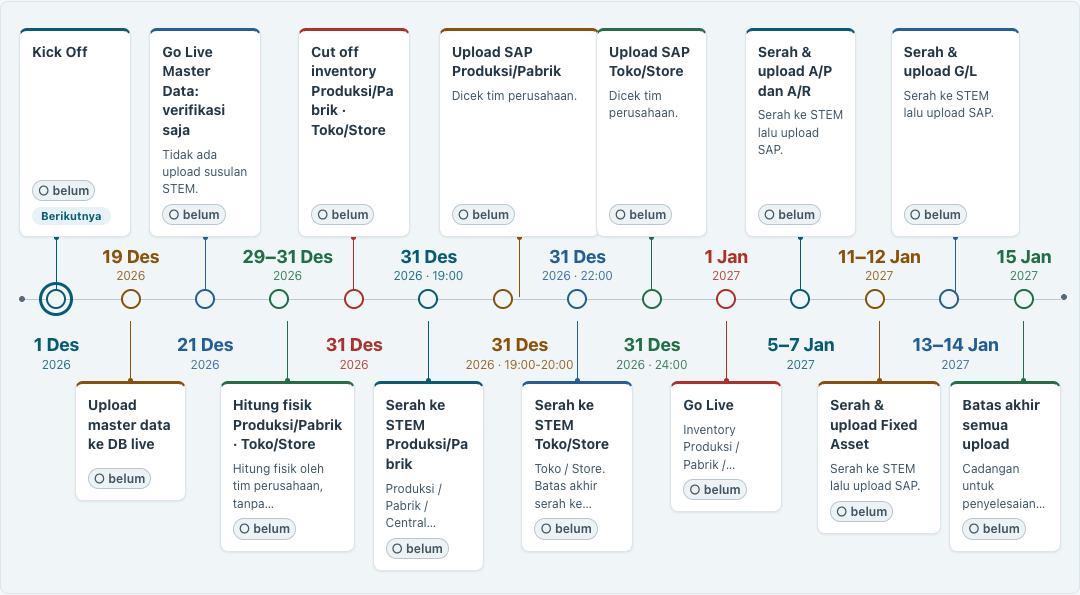
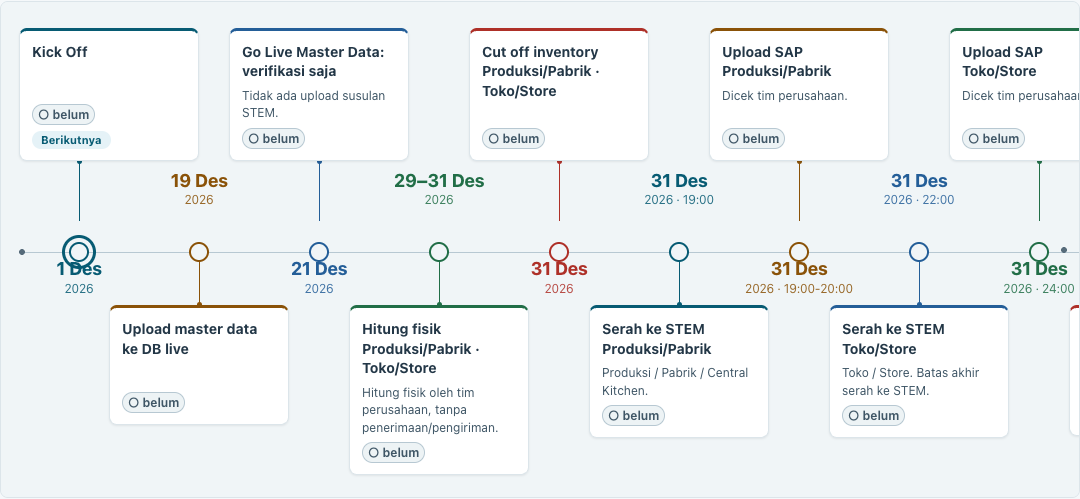
fix(wbi): keep timeline cards apart on the shared inventory axis

diff --git a/CVPPMK/src/main/resources/static/js/pages/schedule.js b/CVPPMK/src/main/resources/static/js/pages/schedule.js
@@ -324,11 +324,11 @@ function mount() {
     const targetOf = it => isInventoryActivity(it.id)?'stock':it.id==='training'?'training':['prepare','deadline','upload-master','verify'].includes(it.id)?'master':'ringkasan';
     const entryOf = it => withSubmitRange({id:it.id,title:it.title,startDate:it.startDate,endDate:it.endDate,status:it.status,note:it.notes||it.note||'',target:targetOf(it)}, all);
     // Garis waktu bersama (Ringkasan dan Stock Opname). Entri: {id,title,startDate,endDate,status,note,target,time?}. Tanggal/jam di sumbu, bukan di kartu.
-    const timelineHtml = (list, nextId, marker) => `<div class="timeline-shell"><ol class="timeline${list.length<=6?' wide':''}" style="--count:${list.length || 1}">${list.map((e,i)=>{
+    const timelineHtml = (list, nextId, marker) => `<div class="timeline-shell${inventoryLocations(all).length>1?' multi-location':''}">${inventoryLocations(all).length>1?`<div class="timeline-track" style="--count:${list.length}">`:''}<ol class="timeline${list.length<=6?' wide':''}" style="--count:${list.length || 1}">${list.map((e,i)=>{
       const status=effectiveStatus(e.status,e.endDate), short=compactTimelineDate(e.startDate,e.endDate);
       const note=cardNote(e.note || ''), summary=note.length>90 ? note.slice(0,87)+'…' : note, title=shortInventoryTitle(e.title,all), sub=esc(short.year)+(e.time?' · '+esc(e.time):'');
       return `<li class="${i%2?'below':'above'} ${e.id===nextId?'upcoming':''}" style="--slot:${i+1};--tone:var(--tl-${i%5})"><span class="timeline-dot ${status}" aria-hidden="true">${status==='selesai'?'✓':status==='telat'?'!':''}</span><span class="timeline-stem" aria-hidden="true"></span><span class="timeline-date" aria-hidden="true">${esc(short.label)}<small>${sub}</small></span><a class="timeline-card" href="#/${e.target}" title="${esc(e.title+' · '+format(e.startDate)+(e.endDate!==e.startDate?' s/d '+format(e.endDate):'')+(e.time?' · '+e.time:'')+(note?' · '+note:''))}"><span class="mobile-date">${esc(short.label)} <small>${sub}</small></span><b>${esc(title)}</b>${summary?`<span class="timeline-note">${esc(summary)}</span>`:''}${badge(status)}${e.id===nextId?'<span class="next-label">Berikutnya</span>':''}<span class="sr-only">${dates(e)}</span></a></li>`;
-    }).join('')}</ol>${marker!==null&&marker!==undefined?`<span class="timeline-today" style="--position:${marker/100}" title="${esc(format(todayLocal()))}"><span>Hari ini</span></span>`:''}</div>`;
+    }).join('')}</ol>${marker!==null&&marker!==undefined?`<span class="timeline-today" style="--position:${marker/100}" title="${esc(format(todayLocal()))}"><span>Hari ini</span></span>`:''}${inventoryLocations(all).length>1?'</div>':''}</div>`;
     const rules = doc.data.rules.filter((rule,i)=>tab==='ringkasan'||i===0&&tab==='master');
     const lockNote = editable ? '' : `<div class="callout warn lock-note"><b>Mode lihat.</b> PIC dan status bisa diubah lalu Simpan; tanggal dan catatan hanya admin. Diskusi bisa dipakai semua. ${lockConfigured ? `<form id="unlock-form" class="unlock"><label class="sr-only" for="unlock-pw">Password admin</label><input id="unlock-pw" class="control" type="password" autocomplete="current-password" placeholder="Password admin (sama dengan Setup)" maxlength="200"><button class="control secondary" type="submit">Buka kunci</button><span id="unlock-msg" role="alert"></span></form>` : ''}</div>`;
     $('#chat-head-slot').innerHTML = `<span data-chat-slot="${tab==='ringkasan'?'umum':'tab:'+tab}"></span>`;

diff --git a/CVPPMK/src/main/resources/static/schedule.html b/CVPPMK/src/main/resources/static/schedule.html
@@ -120,6 +120,8 @@
  position:relative; margin:28px 0; padding:16px 12px;
  background:var(--bg-soft); border:1px solid var(--border); border-radius:var(--radius);
 }
+.schedule .timeline-shell.multi-location { overflow-x:auto; }
+.schedule .timeline-track { position:relative; width:max(100%, calc(var(--count) * 120px)); }
 .schedule .timeline { position:relative; display:grid; grid-template-columns:repeat(var(--count),minmax(0,1fr)); grid-template-rows:minmax(190px,1fr) 66px 24px 66px minmax(190px,1fr); list-style:none; padding:0; margin:0; }
 .schedule .timeline::before { content:''; position:absolute; top:50%; left:0; right:0; height:1px; background:var(--border-strong); }
 .schedule .timeline::after { content:''; position:absolute; top:calc(50% - 3px); left:0; width:6px; height:6px; border-radius:50%; background:var(--muted); box-shadow:none; }
@@ -159,6 +161,7 @@
 }
 @media(max-width:899px) {
  .schedule .timeline-shell { padding:18px 12px; }
+ .schedule .timeline-track { width:auto; }
  .schedule .timeline { display:flex; flex-direction:column; gap:22px; }
  .schedule .timeline::before { top:0; bottom:0; left:12px; right:auto; width:1px; height:auto; }
  .schedule .timeline::after { top:0; left:10px; }

diff --git a/CVPPMK/docs/WBI-TIMELINE-REVISION.md b/CVPPMK/docs/WBI-TIMELINE-REVISION.md
@@ -16,6 +16,6 @@ Menggantikan tampilan dan asumsi jam upload Toko dalam laporan inventory sebelum
 
 Pemindaian seed dan sumber schedule.js tidak menemukan kata internal terlarang; tes mencegah kemunculan kembali. Catatan internal tetap hanya dalam dokumen pengembangan.
 
-Bukti fixture lokal: Java 171 lulus, 0 gagal/error/skip; JS 219 terdaftar, 201 lulus, 18 skip (jsdom tidak tersedia); Chrome 1 skenario/5 kelompok pemeriksaan, 6 screenshot, 0 exception, halaman 390px tidak meluap. Log ada di `qa-wbi-timeline/`; screenshot terbaru dan JSON browser ada di `qa-wbi-inventory/`, termasuk `main-timeline-desktop.png` dan `main-timeline-mobile.png`.
+Bukti fixture lokal: Java 171 lulus, 0 gagal/error/skip; JS 219 terdaftar, 201 lulus, 18 skip (jsdom tidak tersedia); Chrome 1 skenario/5 kelompok pemeriksaan, 7 screenshot, 0 exception, halaman 390px tidak meluap. Log ada di `qa-wbi-timeline/`; screenshot terbaru dan JSON browser ada di `qa-wbi-inventory/`, termasuk `main-timeline-desktop.png` dan `main-timeline-mobile.png`; `main-timeline-end-desktop.png` menunjukkan ujung bagan setelah digeser.
 
-CV tetap 37 kegiatan, 5 area, satu alur asli; seed default.json tidak diubah. Belum diuji: SAP/SL/HANA nyata, deployment, jadwal company yang sudah tersimpan (tidak dimigrasikan), 18 tes jsdom. Tidak ada instalasi paket atau perubahan CSS/token.
+CV tetap 37 kegiatan, 5 area, satu alur asli; seed default.json tidak diubah. Belum diuji: SAP/SL/HANA nyata, deployment, jadwal company yang sudah tersimpan (tidak dimigrasikan), 18 tes jsdom. Tidak ada instalasi paket atau perubahan warna/token. Penyesuaian layout hanya pada bagan multi-lokasi: desktop dapat digeser horizontal untuk menjaga jarak kartu; HP tetap satu garis vertikal. Tes browser membandingkan kotak setiap kartu untuk membuktikan tidak berpotongan.
